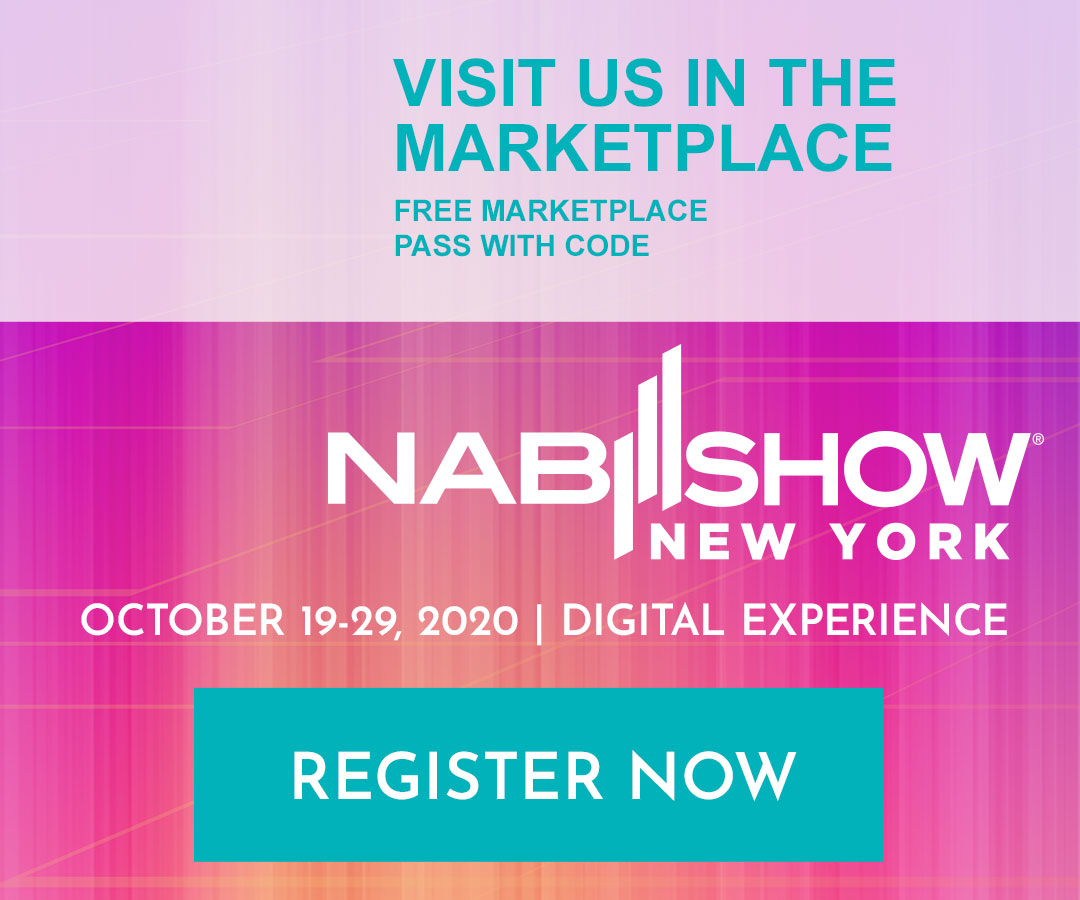
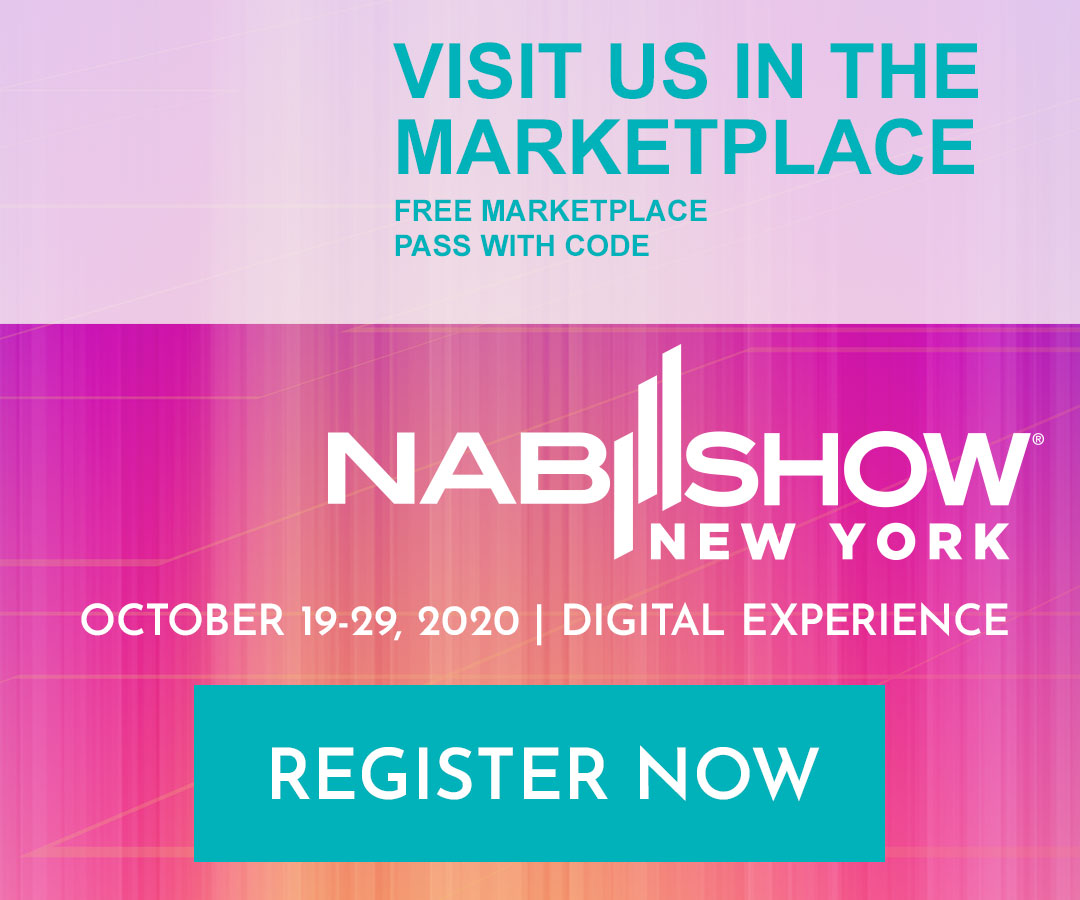
Adjustments

diff --git a/themes/guestpass-new/functions.php b/themes/guestpass-new/functions.php
@@ -856,7 +856,7 @@ function nab_guest_pass_generator() {
 			//'booth_x' => 470,
 			//'booth_y' => 150,
 			//'booth_size' => 95,
-			'code_x' => 920,
+			'code_x' => 658,
 			'code_y' => 260,
 			'code_size' => 24,
 			'color' => array('red'=>0,'grn'=>178,'blu'=>186),
